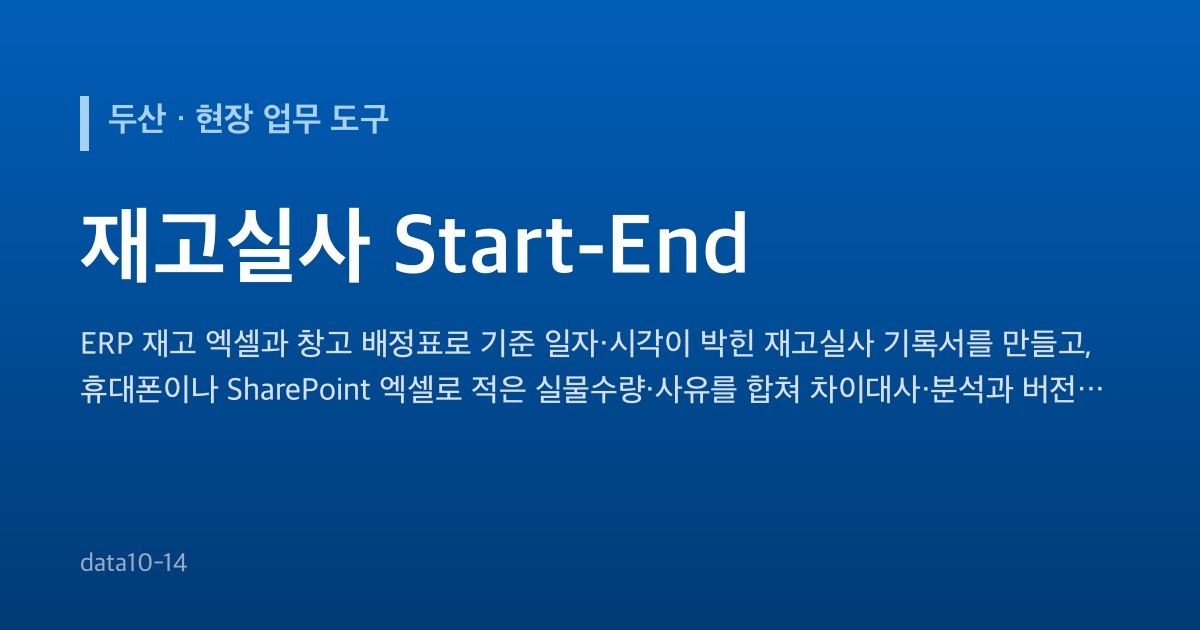
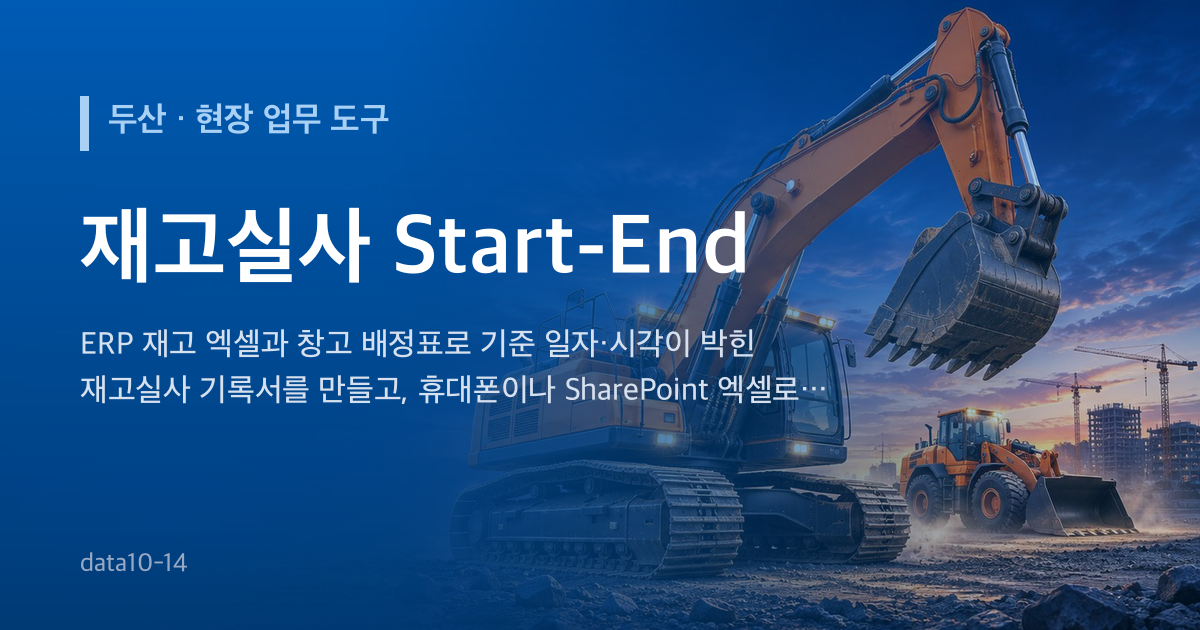
개발 자료 전체 공개 — 개발일지 · 기획서 원문 · 시험 · SQL · 스크립트 · README (수강생 내려받기용)

diff --git a/index.html b/index.html
@@ -12,9 +12,16 @@
   <meta property="og:description" content="ERP 재고 엑셀과 창고 배정표로 기준 일자·시각이 박힌 재고실사 기록서를 만들고, 휴대폰이나 SharePoint 엑셀로 적은 실물수량·사유를 합쳐 차이대사·분석과 버전이 있는 결과 보고서(PPT·엑셀)까지 잇는 브라우저 도구입니다.">
   <meta property="og:url" content="https://miran.jobability.co.kr/">
   <meta property="og:image" content="https://miran.jobability.co.kr/og-image.png">
+  <meta property="og:image:secure_url" content="https://miran.jobability.co.kr/og-image.png">
+  <meta property="og:image:type" content="image/png">
   <meta property="og:image:width" content="1200">
   <meta property="og:image:height" content="630">
+  <meta property="og:image:alt" content="두산 · 재고실사 Start-End">
+  <meta property="og:locale" content="ko_KR">
   <meta name="twitter:card" content="summary_large_image">
+  <meta name="twitter:title" content="두산 · 재고실사 Start-End">
+  <meta name="twitter:description" content="ERP 재고 엑셀과 창고 배정표로 기준 일자·시각이 박힌 재고실사 기록서를 만들고, 휴대폰이나 SharePoint 엑셀로 적은 실물수량·사유를 합쳐 차이대사·분석과 버전이 있는 결과 보고서(PPT·엑셀)까지 잇는 브라우저 도구입니다.">
+  <meta name="twitter:image" content="https://miran.jobability.co.kr/og-image.png">
   <link rel="icon" href="favicon.svg" type="image/svg+xml">
   <!-- /seo-kit -->
   <meta name="description" content="ERP 재고 엑셀과 창고 배정표로 기준 일자·시각이 박힌 재고실사 기록서(SharePoint 취합 파일)를 만들고, 휴대폰이나 엑셀로 실물수량·사유를 적고, 여러 사람의 결과를 합쳐 차이대사·창고별·사내/사외별 분석과 버전이 있는 결과 보고서를 만드는 브라우저 도구">
@@ -30,13 +37,13 @@
        v3: location.reload() 대신 질의 붙은 주소로 — reload 가 Fastly 에 남은 옛 판을 다시 받아 멈추던 것(10-21 build-data 강의안).
        탭 전환·포커스로는 옮기지 않는다(입력 유실). ETag 는 Cloudflare 가 지워서 쓸 수 없다. 원본: dreamit-1000/scripts/fresh-guard/guard.html -->
   <script>(function(){try{var L=location,P='_fg',h=window.history,q=L.search;if(L.protocol==='file:')return;if(/[?&]_fg=/.test(q)&&h&&h.replaceState){q=q.replace(/([?&])_fg=[^&]*&?/,'$1').replace(/[?&]$/,'');h.replaceState(h.state,'',L.pathname+q+L.hash);}var d=Date.parse(document.lastModified),u=L.pathname+L.search,k='__fresh_guard',t=0;if(!d||!window.fetch||!window.sessionStorage)return;var g=function(s,v){return s+(s.indexOf('?')<0?'?':'&')+P+'='+v;};var c=function(){var n=Date.now();if(n-t<15000)return;t=n;fetch(g(u,n),{method:'HEAD',cache:'no-store'}).then(function(r){var lm=r.headers.get('last-modified'),f=lm&&Date.parse(lm);if(!f||f<=d+1000)return;if(sessionStorage.getItem(k)===lm)return;sessionStorage.setItem(k,lm);L.replace(g(L.pathname+L.search,f)+L.hash);})['catch'](function(){});};c();var p=h&&h.pushState;if(p)h.pushState=function(){var x=p.apply(this,arguments);c();return x;};addEventListener('hashchange',c);addEventListener('popstate',c);}catch(e){}})();</script>
-  <link rel="stylesheet" href="css/style.css?v=2026-11-11.7">
+  <link rel="stylesheet" href="css/style.css?v=2026-11-11.8">
   <!-- auth-kit: 로그인 전에는 도구 화면을 감춘다(js/auth.js 가 판정 뒤 푼다) -->
   <script>document.documentElement.classList.add('auth-lock')</script>
-  <link rel="stylesheet" href="css/auth.css?v=2026-11-11.7">
-  <link rel="stylesheet" href="css/board.css?v=2026-11-11.7">
+  <link rel="stylesheet" href="css/auth.css?v=2026-11-11.8">
+  <link rel="stylesheet" href="css/board.css?v=2026-11-11.8">
   <!-- /auth-kit -->
-  <link rel="stylesheet" href="css/theme-brand.css?v=2026-11-11.7">
+  <link rel="stylesheet" href="css/theme-brand.css?v=2026-11-11.8">
 </head>
 <body>
   <a class="skip" href="#main">본문으로 건너뛰기</a>
@@ -69,21 +76,21 @@
   <div id="toast" class="toast" role="status" aria-live="polite" hidden></div>
 
   <!-- 로컬 파일(file://)로 열어도 돌도록 module 이 아닌 일반 스크립트로 불러옵니다 -->
-  <script src="vendor/xlsx.full.min.js?v=2026-11-11.7"></script>
-  <script src="vendor/jszip.min.js?v=2026-11-11.7"></script>
-  <script src="js/logic.js?v=2026-11-11.7"></script>
-  <script src="js/pptx-report.js?v=2026-11-11.7"></script>
-  <script src="js/sample-data.js?v=2026-11-11.7"></script>
-  <script src="js/store.js?v=2026-11-11.7"></script>
-  <script src="js/charts.js?v=2026-11-11.7"></script>
-  <script src="js/ai-endpoint.js?v=2026-11-11.7"></script>
-  <script src="js/ai-panel.js?v=2026-11-11.7"></script>
-  <script src="js/app.js?v=2026-11-11.7"></script>
+  <script src="vendor/xlsx.full.min.js?v=2026-11-11.8"></script>
+  <script src="vendor/jszip.min.js?v=2026-11-11.8"></script>
+  <script src="js/logic.js?v=2026-11-11.8"></script>
+  <script src="js/pptx-report.js?v=2026-11-11.8"></script>
+  <script src="js/sample-data.js?v=2026-11-11.8"></script>
+  <script src="js/store.js?v=2026-11-11.8"></script>
+  <script src="js/charts.js?v=2026-11-11.8"></script>
+  <script src="js/ai-endpoint.js?v=2026-11-11.8"></script>
+  <script src="js/ai-panel.js?v=2026-11-11.8"></script>
+  <script src="js/app.js?v=2026-11-11.8"></script>
   <!-- auth-kit: 로그인 · 사용 신청 · 승인(정본 data10-00/kit/auth) -->
-  <script src="vendor/supabase.js?v=2026-11-11.7"></script>
-  <script src="js/auth-config.js?v=2026-11-11.7"></script>
-  <script src="js/board.js?v=2026-11-11.7"></script>
-  <script src="js/auth.js?v=2026-11-11.7"></script>
+  <script src="vendor/supabase.js?v=2026-11-11.8"></script>
+  <script src="js/auth-config.js?v=2026-11-11.8"></script>
+  <script src="js/board.js?v=2026-11-11.8"></script>
+  <script src="js/auth.js?v=2026-11-11.8"></script>
   <!-- /auth-kit -->
 </body>
 </html>

diff --git a/js/auth.js b/js/auth.js
@@ -233,6 +233,12 @@
       box.classList.toggle('hp-sl-light', !!(sl[i] && sl[i].tone === 'light'));   // 밝은 사진이면 글자를 어둡게
     }
     go(0);
+    // slides[].anim(움직이는 그림 gif) — 먼저 가벼운 사진을 보이고, 화면이 뜬 뒤 받아서 바꿔 끼운다(데이터 절약 · 모션 최소화면 건너뜀)
+    var conn = navigator.connection || {};
+    if (!reduce && !conn.saveData) sl.forEach(function (x, k) {
+      if (!x.anim || !track.children[k]) return;
+      setTimeout(function () { var im = new Image(); im.onload = function () { if (document.body.contains(track)) track.children[k].style.backgroundImage = 'url("' + absUrl(x.anim) + '")'; }; im.src = absUrl(x.anim); }, 1500);
+    });
     box.querySelectorAll('[data-sl]').forEach(function (b) {
       b.onclick = function () {
         var v = b.getAttribute('data-sl');

diff --git a/js/app.js b/js/app.js
@@ -6,7 +6,7 @@
   var L = window.STLogic, S = window.STStore, C = window.STCharts, AIP = window.AIPanel, SMP = window.STSample;
   /* 판 맞추기 — 브라우저가 옛 logic.js 와 새 app.js 를 섞어 쓰면(Pages 캐시) 버튼과 결과가 어긋날 수 있어, 섞였으면 계산하지 않고 새로고침을 안내합니다.
      판은 scripts/bump-version.mjs 로 index.html(?v=) · logic.js 와 함께 올립니다. */
-  var APP_VERSION = '2026-11-11.7';
+  var APP_VERSION = '2026-11-11.8';
   if (!L || L.VERSION !== APP_VERSION) {
     var m0 = document.getElementById('main') || document.body;
     m0.innerHTML = '<section class="card" id="versionMismatch"><h1>새 판이 나왔습니다 — 새로고침(Ctrl+F5)해 주세요</h1><p class="alert warn">이 브라우저가 옛 파일과 새 파일을 섞어 불러왔습니다(js/logic.js ' +

diff --git a/js/logic.js b/js/logic.js
@@ -18,7 +18,7 @@
   'use strict';
   /* 판(版) — index.html 의 ?v= · app.js 의 APP_VERSION 과 같아야 합니다(scripts/bump-version.mjs 로 함께 올림).
      브라우저가 옛 logic.js 와 새 app.js 를 섞어 쓰면 app.js 가 이 값을 보고 계산을 멈춥니다. */
-  var VERSION = '2026-11-11.7';
+  var VERSION = '2026-11-11.8';
 
   var SCHEMA_VERSION = 1;
   var RESULT_KIND = 'data10-14.result';

diff --git a/CHANGELOG.md b/CHANGELOG.md
@@ -2,6 +2,11 @@
 
 버전마다 기획서 워드 판을 `docs/기획서/` 에 남긴다(옛 판을 지우지 않는다).
 
+## 2026-11-11 최종 (판 2026-11-11.8)
+
+- 공유 미리보기 그림(og-image.png)을 첫 화면 사진 바탕으로, og · twitter 메타 보강
+- 평가보고서 갱신 `docs/평가보고서/`
+
 ## 2026-11-11 점검 · 평가보고서 (판 2026-11-11.7)
 
 - 16개 사이트 점검 결과와 평가보고서 `docs/평가보고서/`(md · docx)
